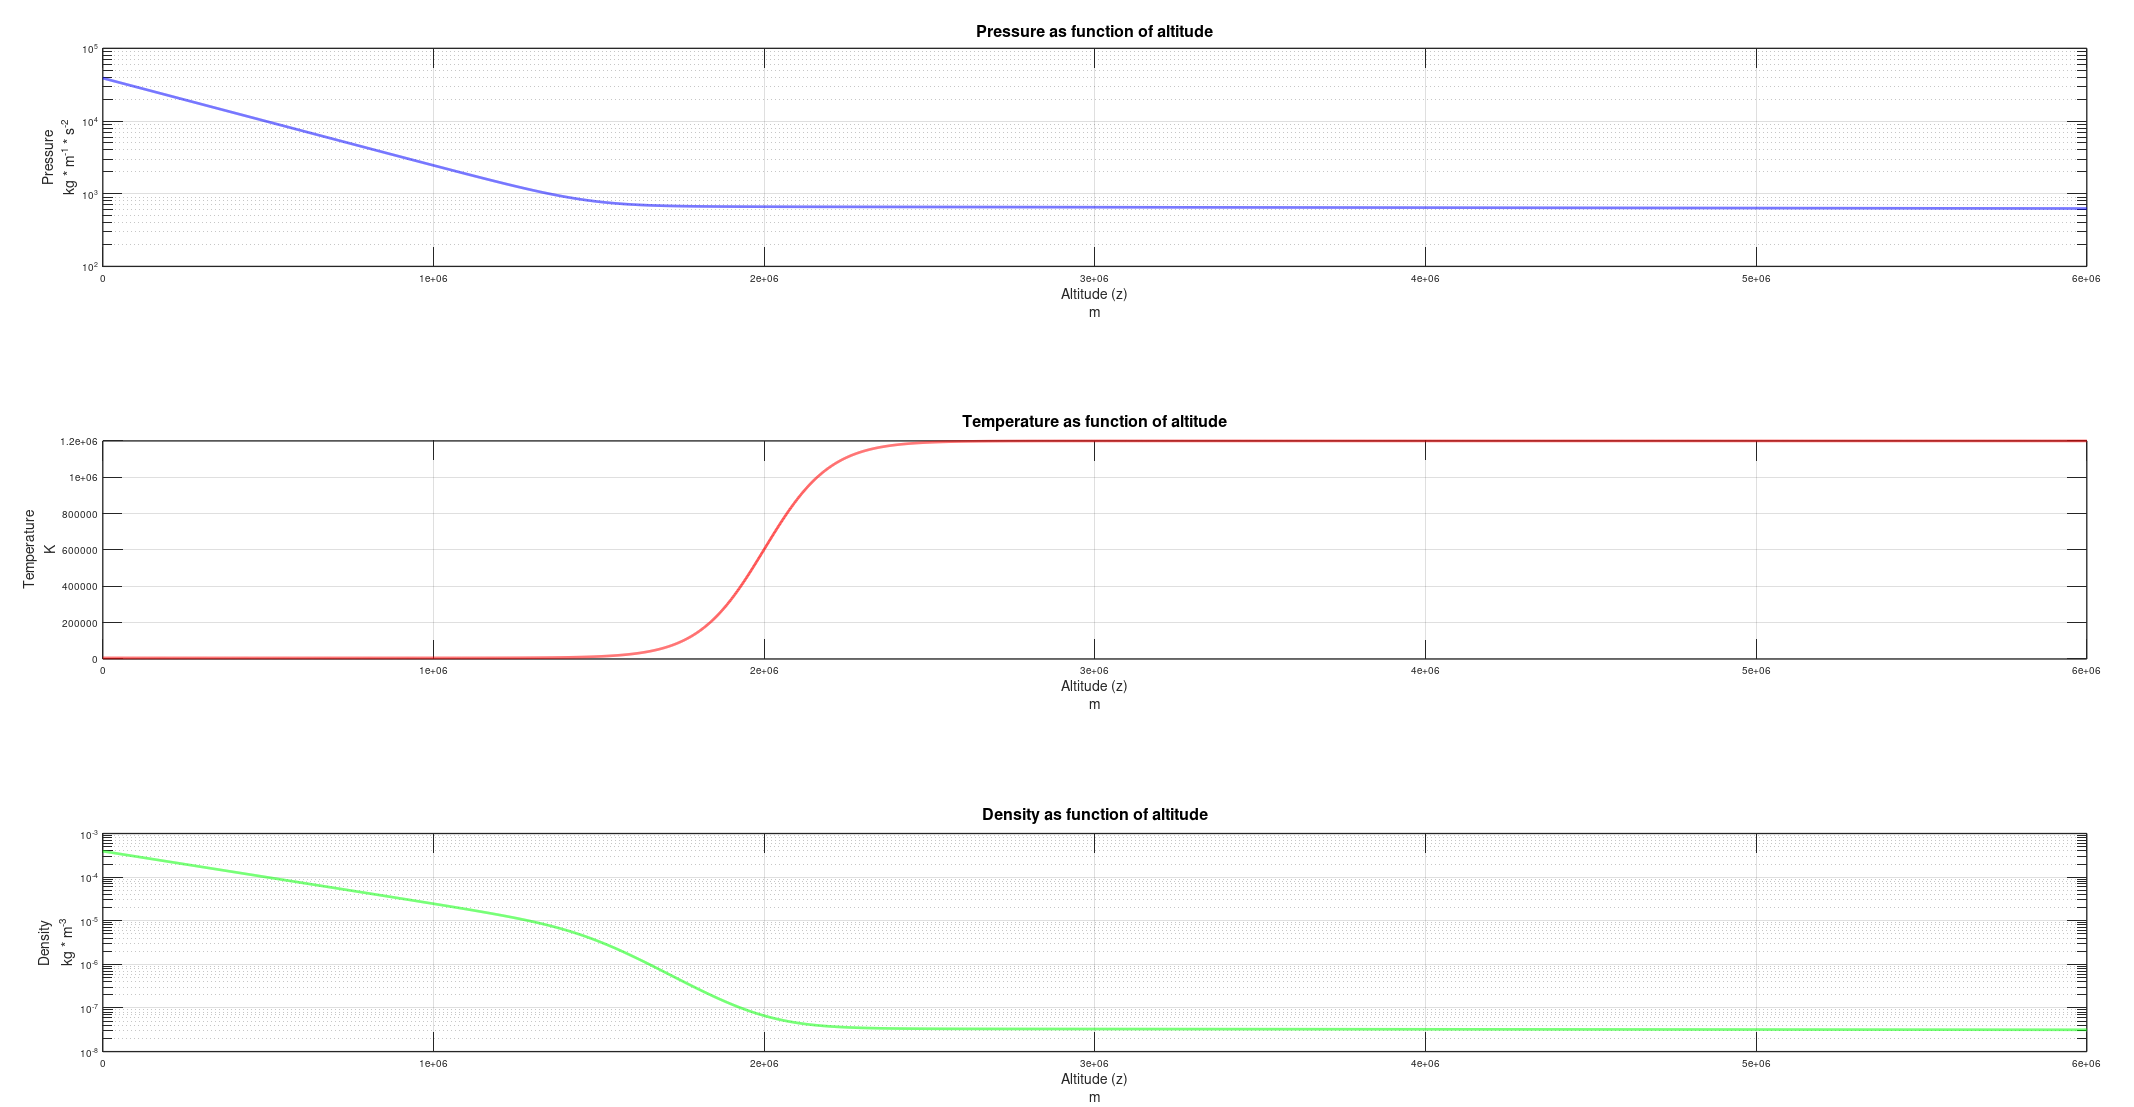
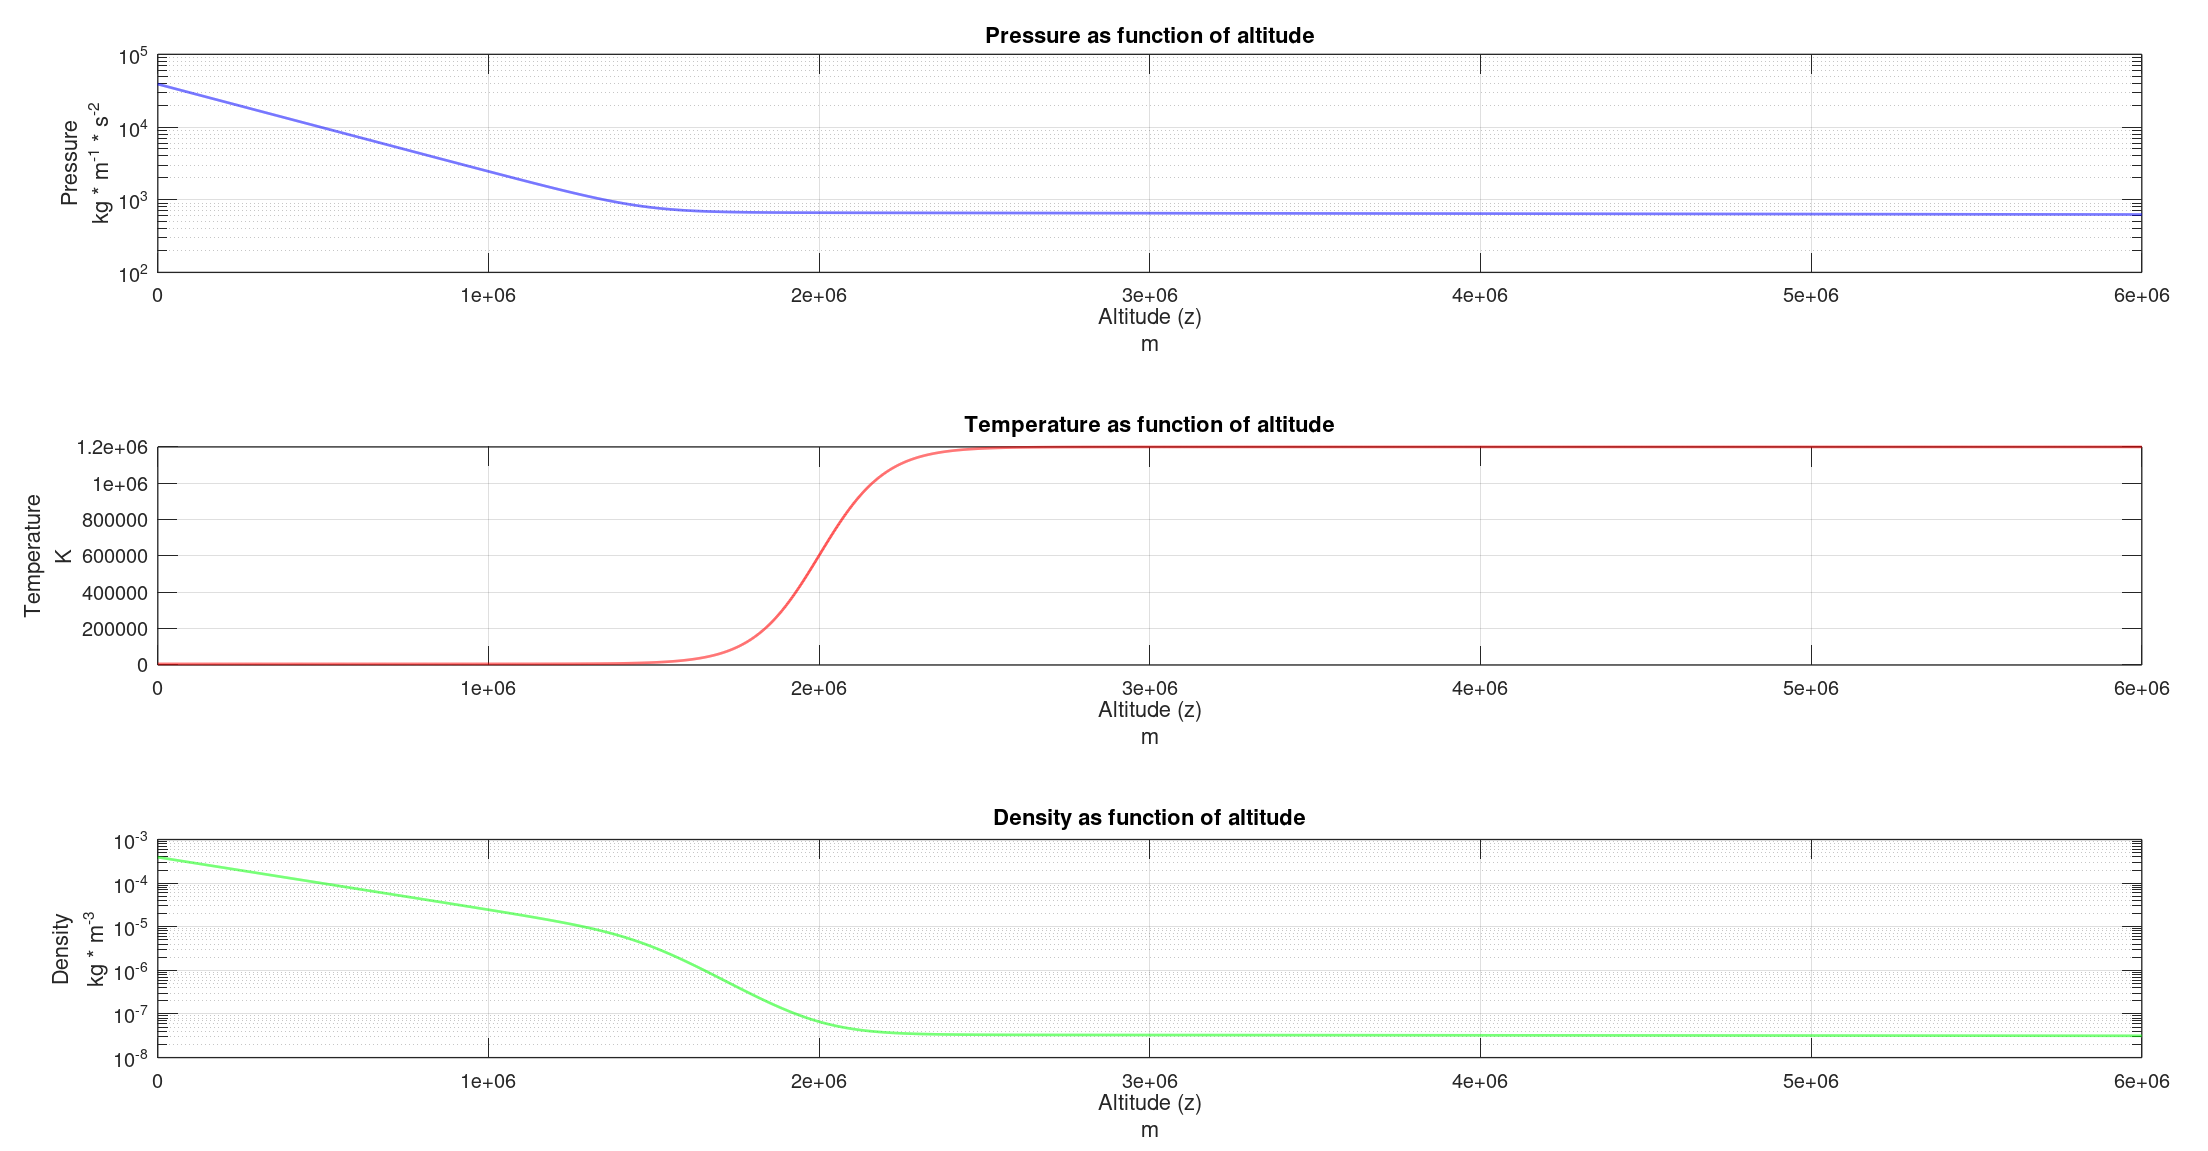
Terminé intro y primera explicación de códigos de Octave. Empezando con el reporte del código C++. Actualizé gráficas para que su letra sea más legible en el PDF final.

diff --git a/Reporte/Codigos.tex b/Reporte/Codigos.tex
@@ -1,0 +1,84 @@
+\section{Códigos de Integración}
+
+Para trabajar de una manera más eficiente se desarrollaron dos códigos separados
+basado en su funcionalidad: unos scripts en Octave, la cual facilita operaciones
+matemáticas y la creación de gráficas de una manera más declarativa, y un código
+en C++, el cual ofrece mayor control sobre las instrucciones que debe correr el
+programa y mayor extensibilidad. Los scripts de Octave fueron utilizados para
+las soluciones analíticas para el modelo descrito en la sección
+\ref{sec:modeloAnalitico}, mientras que el código de C++ fue utilizado para el
+modelo C7 (sección \ref{sec:c7Modelo}). Ambas soluciones fueron graficadas
+usando los scripts de Octave. El código completo se puede encontrar y descargar
+del repositorio de GitHub
+\href{https://github.com/KnightIV/EquilibrioHidrostatico}{EquilibrioHidrostatico}.
+
+\subsection{Solución Analítica}
+
+\subsubsection{Implementación del Código}
+Las soluciones para el modelo analítico del equilibrio hidrostático en la
+fotosfera del Sol están implementadas en el archivo
+\verb|Graficas_EcuacionIdeal.m|. Aquí se definen las ecuaciones descritas la
+sección \ref{sec:modeloAnalitico} dependientes de la altitud, representada por
+el arreglo \verb|z| de \verb|6000| entradas, representando las altitudes en
+metros para las cuales se van a resolver las ecuaciones. Este arreglo está
+declarado en la parte superior del código junto al resto de las constantes
+físicas necesarias para resolver el problema. 
+
+Estas soluciones no pueden ser generadas todas al mismo tiempo debido a su
+acoplamiento entre si, por lo que fue necesario resolverlas en un orden
+específico. Para encontrar la densidad con respecto a la altitud se necesita
+saber la presión; la presión requiere la integral del perfil de temperatura. Una
+vez que cada una haya sido calculada se puede incluir en la subsecuente
+ecuación. Debido que el propósito principal de Octave es facilitar la evaluación
+de expresiones matemáticas estas operaciones son implementadas de manera
+declarativa, cuya notación no es muy diferente que su representación matemática. 
+
+\subsubsection{Resultados}
+Una vez terminado el cálculo de cada ecuación el mismo script se encarga de
+graficar los resultados. Esto se hace por conveniencia, ya que los datos siguen
+en la memoria del programa corriendo. Para hacer esta parte más modular se
+separó la función de graficar a un archivo separado dentro del proyecto, llamado
+igual que la función \verb|plot_data_helper.m|. Aparte de separar la lógica del
+código, esto también permite usar esta subrutina en el script que acompaña la
+solución numérica. Los perfiles de presión, temperatura, y densidad obtenidos
+mediante una integración analítica se pueden ver en la figura
+\ref{modeloAnaliticoResultadosGraficas}, en las cuales se puede observar el
+perfil suave que tienen cada una de las funciones. 
+
+\begin{figure}[!ht]
+	\centering
+	\includegraphics[scale=0.3]{Figuras/IntegracionAnaliticaGrafica.png}
+	\caption{Perfiles de presión, temperatura, y densidad del plasma en la fotosfera y la región de transición a la corona.}
+	\label{modeloAnaliticoResultadosGraficas}
+\end{figure}
+
+\subsection{Solución Numérica del Modelo C7}
+
+\subsubsection{Implementación del Código}
+A diferencia del código utilizado para la integración de las ecuaciones
+analíticas, el modelo C7 fue resuelto con un código en C++. Este lenguaje fue
+seleccionado por varias razones:
+
+\begin{itemize}
+	\item Habilidad de programar módulos por separado, incluyendo compilación.
+	Esta fue la razón principal por la cual está escrita en C++, dejando abierta
+	la posibilidad de implementar el código de integración numérica para que sea
+	ejecutable en un procesador de gráficos (GPU). 
+	\item Mayor control sobre las operaciones implementadas.
+ 	\item Compatibilidad entre Windows y Linux sin necesitar de varias
+ 	dependencias, con la excepción de herramientas de compilación.
+\end{itemize}
+
+El proyecto en si consiste de dos sub-proyectos, cada uno responsable de
+diferentes funciones. El proyecto ejecutable, \verb|EquilibrioHidrostatico|,
+contiene la rutina principal (la función \verb|main| requerida en todo
+ejecutable escrito en C++) del programa, la cual hace llamadas a los módulos de
+integración y extracción de datos descritos en las siguientes secciones. 
+
+Una de las características principales de este código es que todos los datos los
+mantiene en su memoria durante la ejecución del programa, en vez de calcular los
+valores necesarios para cada altitud e escribir estos a un archivo
+inmediatamente. //TODO: keep going
+
+\subsubsection{\verb|EQHS_Data|}
+Este módulo es el responsable de 

diff --git a/Reporte/Introduccion.tex b/Reporte/Introduccion.tex
@@ -1,4 +1,4 @@
-\section*{Introducción}
+\section{Introducción}
 
 En la hidrodinámica se observa un fenómeno denominado como el \textit{equilibrio
 hidrostático}. Un fluido que está en equilibrio hidrostático está sometido a un
@@ -42,7 +42,7 @@ ecuación \ref{balanceFuerzas_diferencial}.
 	\label{balanceFuerzas_imgCubo}
 \end{figure}
 
-\subsection*{Fluidos no Ideales}
+\subsection{Fluidos no Ideales}
 Para que la ecuación \ref{balanceFuerzas_diferencial} pueda ser aplicada a un
 problema particular requiere que la densidad \(\rho\) sea constante en el fluido
 a lo largo del espacio y del tiempo, es decir requiere que el problema trate de
@@ -57,9 +57,9 @@ ecuación asume que la temperatura es constante con la altitud; para analizar el
 equilibrio hidrostático en la superficie del Sol necesitaremos un modelo cuya
 temperatura no sea constante en el espacio.
 
-\subsection*{Equilibrio Hidrostático Dentro del Sol}
+\subsection{Equilibrio Hidrostático Dentro del Sol}
 
-\subsubsection*{Modelo Analítico}
+\subsubsection{Modelo Analítico} \label{sec:modeloAnalitico}
 
 Para el problema resuelto en este proyecto consideramos un modelo del Sol en
 equilibrio hidrostático. El Sol está compuesto principalmente de hidrógeno
@@ -153,7 +153,39 @@ ecuación \ref{ecEstadoDensidadAnalitico}.
 	presión y temperatura a esta altitud. \cite{newtonianCafe}}
 \end{equ}
 
-\subsubsection*{Modelo C7}
+\subsubsection{Modelo C7} \label{sec:c7Modelo}
 El modelo C7 describe el perfil de temperatura del Sol en su estado inactivo
 promedio, enfocado en la cromosfera y la región de transición a la corona.
-\cite{c7ModelPaper} 
+\cite{c7ModelPaper} Este modelo unidimensional e independiente del tiempo está
+basado principalmente en observaciones hechas en el ultravioleta extremo. Este
+perfil se puede visualizar en la figura \ref{c7TemperaturaGrafica}.
+
+\begin{figure}[!ht]
+	\centering
+	\includegraphics[scale=0.3]{Figuras/C7ModeloTemperaturaGrafica.png}
+	\caption{Perfil de temperatura en la cromosfera del Sol, incluyendo la región de transición a la corona. Esta región de transición se puede ver en el fuerte empinamiento de la gráfica, donde la temperatura aumenta rápidamente a niveles mayores de lo visto en la cromosfera.}
+	\label{c7TemperaturaGrafica}
+\end{figure}
+
+El perfil de temperatura visualizado en la figura \ref{c7TemperaturaGrafica} no
+está definido de forma analítica como la ecuación \ref{ecTemperaturaAnalitica},
+si no que es un conjunto de datos discretos, dándonos la temperatura en la
+atmósfera del Sol a cierta altitud. Para obtener los perfiles de densidad y
+presión del plasma en esta región se necesitan las ecuaciones \ref{ecPresionC7}
+a \ref{ecScaleHeightC7}:
+
+\begin{equ}[!ht]
+	\begin{align}
+		p_e (z) = p_{ref} \exp \left(- \int_{z_{ref}}^{z} \frac{dz}{\Lambda (z)}\right) \label{ecPresionC7} \\
+		\rho_e (z) = \frac{p_e (z)}{g \Lambda (z)} \label{ecDensidadC7} \\
+		\Lambda (z) = \frac{k_B T_e (z)}{m g} \label{ecScaleHeightC7}
+	\end{align}
+	\caption*{Ecuaciones del equilibrio hidrostático para el modelo C7 de
+	temperatura. \cite{newtonianCafe} \(\Lambda (z)\) es la altura de escala, la
+	cual modela el decrecimiento de la temperatura del plasma con respecto a la
+	altitud.} 
+\end{equ}
+
+Debido a la ausencia de una solución analítica para estas ecuaciones, estas
+deben ser resueltas usando un método numérico. A continuación explico los
+códigos que se desarrollaron para resolver este problema.

diff --git a/Reporte/main.tex b/Reporte/main.tex
@@ -1,4 +1,4 @@
-\documentclass[notitlepage,12pt,a4paper]{report}
+\documentclass[notitlepage,12pt,a4paper]{article}
 \usepackage{fullpage}
 
 \usepackage{titling}
@@ -20,6 +20,9 @@
 \usepackage[square,numbers]{natbib}
 \bibliographystyle{abbrvnat}
 
+\usepackage{enumitem}
+\setlist{nolistsep}
+
 \usepackage[normalem]{ulem}
 \usepackage[colorlinks,linkcolor=black,urlcolor=blue,citecolor=blue]{hyperref}
 \usepackage{url}
@@ -40,6 +43,8 @@
 \maketitle
 
 \input{Introduccion.tex}
+\input{Codigos.tex}
 
+\clearpage
 \bibliography{ref}
 \end{document}

diff --git a/Scripts_Graficas/plot_data_helper.m b/Scripts_Graficas/plot_data_helper.m
@@ -5,7 +5,7 @@ function plot_data_helper(x, y, x_label, y_label, fig_title, format, y_log_scale
     plot(x, y, format, "MarkerSize", 2, "LineWidth", 1)
   endif
   grid on
-  xlabel(x_label, "FontSize",  14)
-  ylabel(y_label, "FontSize",  14)
-  title(fig_title, "FontSize", 16)
+  xlabel(x_label)
+  ylabel(y_label)
+  title(fig_title)
 end
